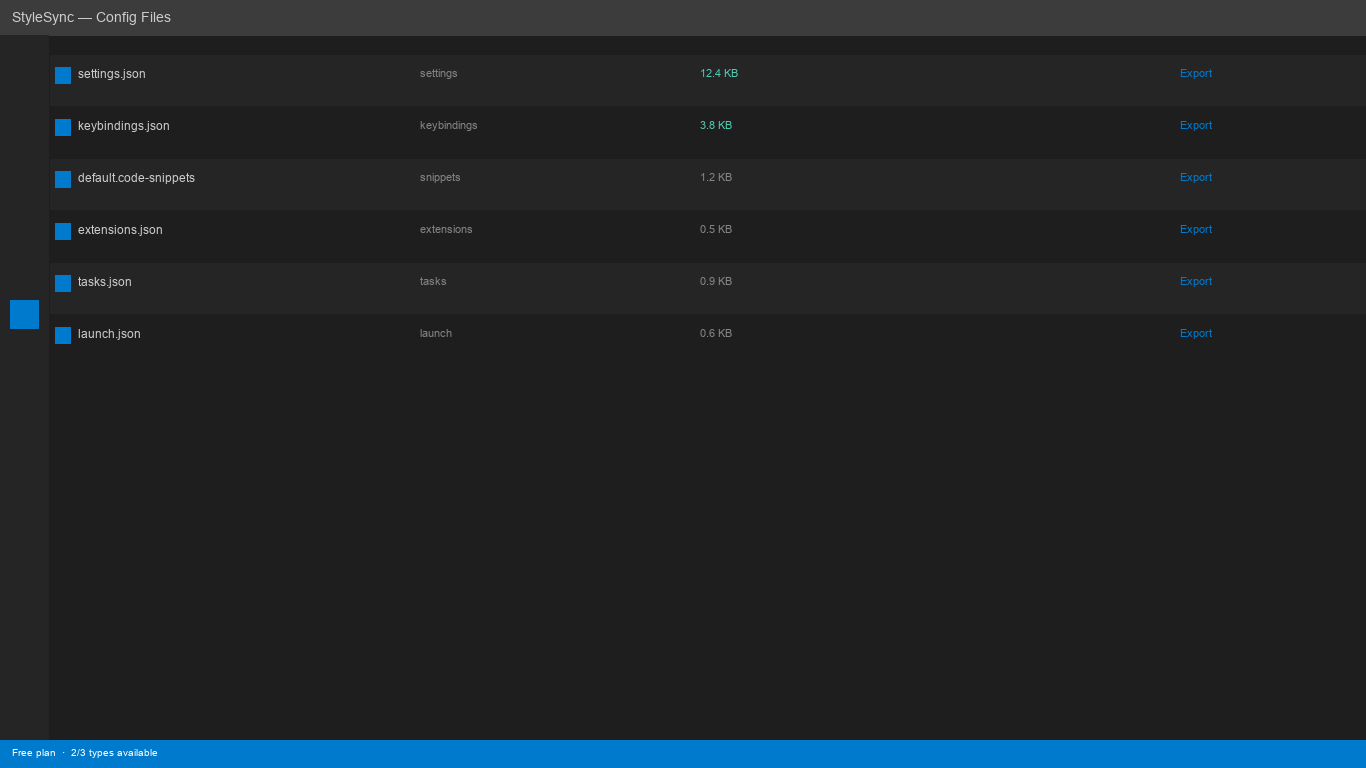
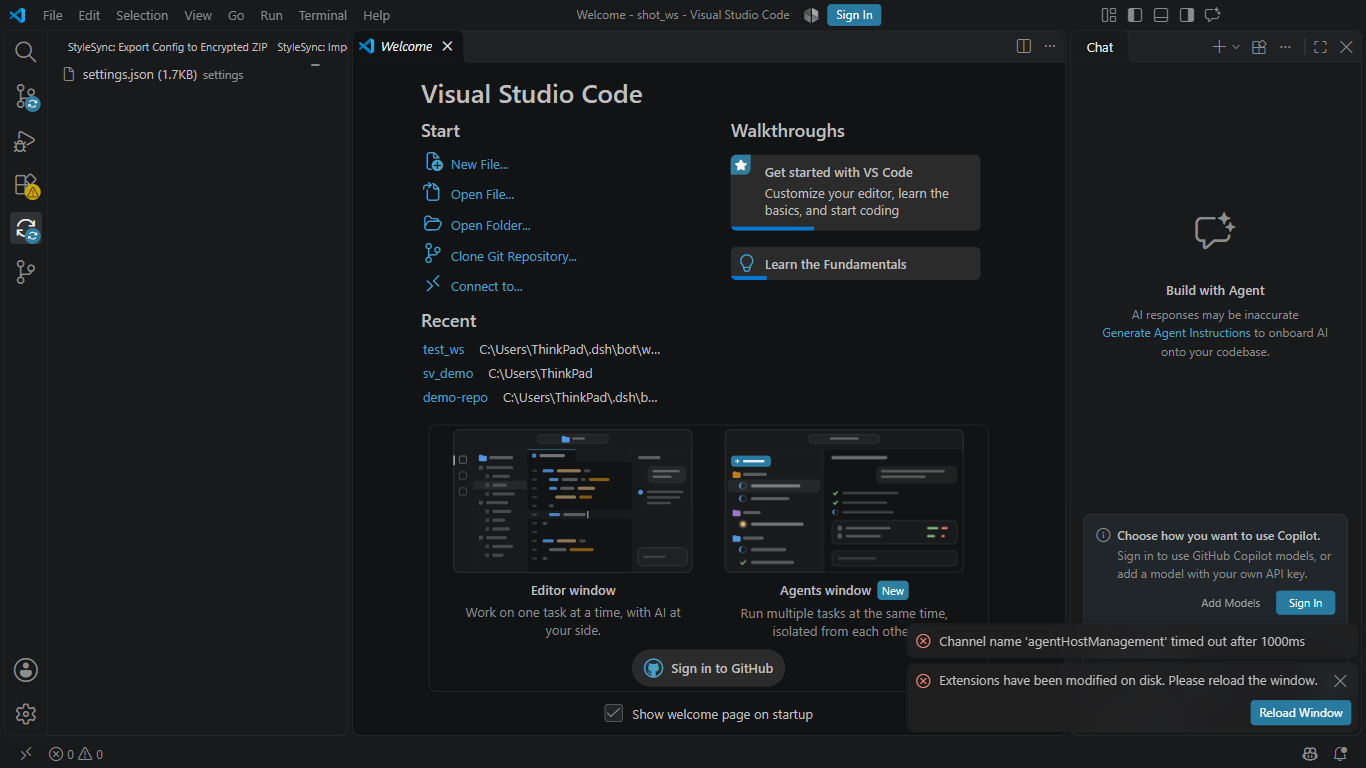
v1.0.2: fix verifyEndpoint to 463102527, real screenshots

diff --git a/extension.js b/extension.js
@@ -9,7 +9,7 @@ const treeProvider = require('./lib/treeProvider');
 // License / endpoint config
 // ---------------------------------------------------------------------------
 
-const DEFAULT_VERIFY_ENDPOINT = 'https://snapmark-license.61960005.workers.dev/verify';
+const DEFAULT_VERIFY_ENDPOINT = 'https://snapmark-license.463102527.workers.dev/verify';
 
 function readCfg() {
   const c = vscode.workspace.getConfiguration('stylesync');
@@ -41,6 +41,18 @@ async function verifyLicense(endpoint, license) {
 function registerCommands(context) {
   const tree = new treeProvider.ConfigTreeProvider(context);
   context.subscriptions.push(vscode.window.registerTreeDataProvider('stylesync-tree', tree));
+
+  // VS Code renders a tree view lazily: the panel shows a spinner until the provider fires
+  // onDidChangeTreeData at least once *after* the view has mounted. Nothing else fires it for
+  // this view, so the panel stayed blank on first open. The view may be created well after this
+  // extension activates, so run the refresh command on a short timer for a few seconds — enough
+  // for at least one refresh to land once the panel exists, and no cost after that.
+  let refreshTicks = 0;
+  const refreshTimer = setInterval(() => {
+    void vscode.commands.executeCommand('stylesync.refreshTree');
+    if (++refreshTicks >= 20) clearInterval(refreshTimer);
+  }, 250);
+  context.subscriptions.push({ dispose: () => clearInterval(refreshTimer) });
 
   // Refresh
   context.subscriptions.push(vscode.commands.registerCommand('stylesync.refreshTree', () => {
@@ -120,13 +132,13 @@ function registerCommands(context) {
     try {
       const raw = await vscode.workspace.fs.readFile(openUri[0]);
       const results = await treeProvider.doImport(raw, password);
-      let msg = 'StyleSync: import complete.\n';
-      for (const r of results) {
-        msg += r.status === 'ok'
-          ? `  ✓ ${r.target}: written\n`
-          : `  ⚠ ${r.target}: conflict detected — review manually\n`;
-      }
-      vscode.window.showInformationMessage(msg.trimEnd());
+      // One line: VS Code notification pills are single-line and clip any "\n" in the body,
+      // which truncated the per-file status the user most needs to see.
+      const written = results.filter(r => r.status === 'ok').length;
+      const flagged = results.filter(r => r.status !== 'ok').map(r => r.target).join(', ');
+      let msg = `StyleSync: import complete — ${written}/${results.length} written`;
+      if (flagged) msg += ` · conflict, review: ${flagged}`;
+      vscode.window.showInformationMessage(msg);
       tree.refresh();
     } catch (e) {
       vscode.window.showErrorMessage(`StyleSync: import failed — ${String(e.message || e)}`);

diff --git a/privacy-policy.html b/privacy-policy.html
@@ -12,7 +12,7 @@
 <div class="section">
 <h2>1. What we collect</h2>
 <p>StyleSync <strong>does not collect any personal data or usage telemetry</strong>. All operations happen locally on your machine.</p>
-<p>The only network call occurs when you activate a Pro license key against our verification endpoint (<code>snapmark-license.61960005.workers.dev</code>). This call transmits only the license key string (a short alphanumeric token), which our backend validates and returns a boolean validity result. No other data is sent.</p>
+<p>The only network call occurs when you activate a Pro license key against our verification endpoint (<code>snapmark-license.463102527.workers.dev</code>). This call transmits only the license key string (a short alphanumeric token), which our backend validates and returns a boolean validity result. No other data is sent.</p>
 </div>
 
 <div class="section">
@@ -34,7 +34,7 @@
 <p>StyleSync uses the following third-party services:</p>
 <ul>
 <li><strong>Paddle Billing</strong> — processes payment for the Pro upgrade. See the Paddle Privacy Policy.</li>
-<li><strong>Cloudflare Workers</strong> — hosts the license verification API at <code>snapmark-license.61960005.workers.dev</code>. Cloudflare's standard logging applies to this endpoint.</li>
+<li><strong>Cloudflare Workers</strong> — hosts the license verification API at <code>snapmark-license.463102527.workers.dev</code>. Cloudflare's standard logging applies to this endpoint.</li>
 </ul>
 <p>There is no third-party analytics, advertising, or tracking within StyleSync.</p>
 </div>

diff --git a/materials/STORE_DESCRIPTION.md b/materials/STORE_DESCRIPTION.md
@@ -32,7 +32,7 @@ Unlock additional config types:
 - **Encryption**: Node.js built-in `crypto` module (AES-256-CBC + scrypt key derivation). No third-party crypto libraries.
 - **ZIP packaging**: JSZip v3 bundled inline.
 - **Platform support**: Windows, macOS, Linux (auto-detects VS Code user-data path).
-- **License verification**: Single POST to `snapmark-license.61960005.workers.dev/verify`; transmits only the license key string.
+- **License verification**: Single POST to `snapmark-license.463102527.workers.dev/verify`; transmits only the license key string.
 
 ### Who is this for?
 Developers who value privacy and want full ownership of their editor configuration—especially those working with sensitive project paths, internal tooling configs, or API keys stored in user settings.

diff --git a/README.md b/README.md
@@ -51,7 +51,7 @@ Supported config types:
 ## Privacy & data handling
 
 - All config reads happen **locally** on your machine.
-- The only network call is to the license verification endpoint (`snapmark-license.61960005.workers.dev`) when activating a Pro license key.
+- The only network call is to the license verification endpoint (`snapmark-license.463102527.workers.dev`) when activating a Pro license key.
 - Encryption passwords are **never transmitted** — they stay in your VS Code input dialog.
 - See [privacy-policy.html](privacy-policy.html) for full details.
 
